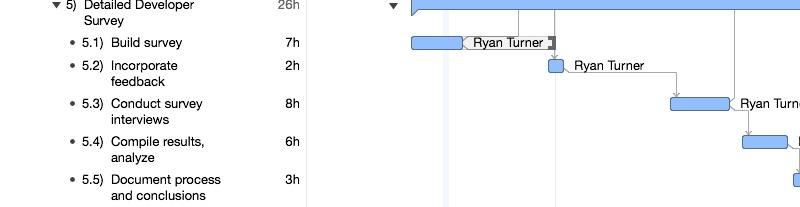
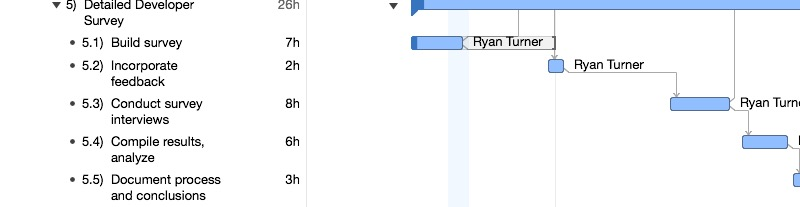
Updated project plan to reflect progress towards tasks

diff --git a/project-plan/task.html b/project-plan/task.html
@@ -53,7 +53,7 @@
                 <td>6/24/18, 12:00 PM</td>
                 <td>7/22/18, 10:30 AM</td>
                 <td>58.5h</td>
-                <td>0%</td>
+                <td>20%</td>
                 <td></td>
                 <td class="total"></td>
                 <td></td>
@@ -70,7 +70,7 @@
                 <td>6/24/18, 12:00 PM</td>
                 <td>6/24/18, 12:30 PM</td>
                 <td>0.5h</td>
-                <td>0%</td>
+                <td>100%</td>
                 <td></td>
                 <td class="total"></td>
                 <td>Ryan Turner</td>
@@ -274,7 +274,7 @@
                 <td>6/18/18, 7:00 PM</td>
                 <td>7/22/18, 1:00 PM</td>
                 <td>75h</td>
-                <td>0%</td>
+                <td>3%</td>
                 <td></td>
                 <td class="total"></td>
                 <td></td>
@@ -291,7 +291,7 @@
                 <td>6/18/18, 7:00 PM</td>
                 <td>6/20/18, 8:00 PM</td>
                 <td>7h</td>
-                <td>0%</td>
+                <td>12%</td>
                 <td></td>
                 <td class="total"></td>
                 <td>Ryan Turner</td>
@@ -376,7 +376,7 @@
                 <td>6/20/18, 8:00 PM</td>
                 <td>7/16/18, 10:00 PM</td>
                 <td>56h</td>
-                <td>0%</td>
+                <td>3%</td>
                 <td></td>
                 <td class="total"></td>
                 <td></td>
@@ -393,7 +393,7 @@
                 <td>6/20/18, 8:00 PM</td>
                 <td>6/24/18, 12:00 PM</td>
                 <td>7h</td>
-                <td>0%</td>
+                <td>12%</td>
                 <td></td>
                 <td class="total"></td>
                 <td>Ryan Turner</td>
@@ -479,6 +479,6 @@
         </div>
         </div>
         <div id="footer">
-	        <p class="exported">Exported 6/23/18</p>
+	        <p class="exported">Exported 6/24/18</p>
         </div>
 </body>

diff --git a/project-plan/resource.html b/project-plan/resource.html
@@ -45,7 +45,7 @@
                 <td>6/18/18, 7:00 PM</td>
                 <td>7/29/18, 12:00 PM</td>
                 <td>73.5h</td>
-                <td>0%</td>
+                <td>3%</td>
                 <td></td>
             </tr>
             
@@ -54,7 +54,7 @@
                 <td>6/18/18, 7:00 PM</td>
                 <td>6/20/18, 8:00 PM</td>
                 <td>7h</td>
-                <td>0%</td>
+                <td>12%</td>
                 <td></td>
             </tr>
             
@@ -63,7 +63,7 @@
                 <td>6/20/18, 8:00 PM</td>
                 <td>6/24/18, 12:00 PM</td>
                 <td>7h</td>
-                <td>0%</td>
+                <td>12%</td>
                 <td></td>
             </tr>
             
@@ -72,7 +72,7 @@
                 <td>6/24/18, 12:00 PM</td>
                 <td>6/24/18, 12:30 PM</td>
                 <td>0.5h</td>
-                <td>0%</td>
+                <td>100%</td>
                 <td></td>
             </tr>
             
@@ -237,6 +237,6 @@
         </div>
         </div>
         <div id="footer">
-	        <p class="exported">Exported 6/23/18</p>
+	        <p class="exported">Exported 6/24/18</p>
         </div>
 </body>

diff --git a/project-plan/gantt.html b/project-plan/gantt.html
@@ -31,17 +31,17 @@
 	       
 <table border="0" cellspacing="0" cellpadding="0">
 <tr>
-	<td><img src="include/gantt0,0.jpg?nocacheTag=-739084456" border=0/></td>
-	<td><img src="include/gantt1,0.jpg?nocacheTag=-1988156324" border=0/></td>
+	<td><img src="include/gantt0,0.jpg?nocacheTag=338568585" border=0/></td>
+	<td><img src="include/gantt1,0.jpg?nocacheTag=-1032778704" border=0/></td>
 </tr>
 <tr>
-	<td><img src="include/gantt0,1.jpg?nocacheTag=-26979225" border=0/></td>
-	<td><img src="include/gantt1,1.jpg?nocacheTag=-991048520" border=0/></td>
+	<td><img src="include/gantt0,1.jpg?nocacheTag=1869602644" border=0/></td>
+	<td><img src="include/gantt1,1.jpg?nocacheTag=-2054311080" border=0/></td>
 </tr>
 </table>
         </div>
         </div>
         <div id="footer">
-	        <p class="exported">Exported 6/23/18</p>
+	        <p class="exported">Exported 6/24/18</p>
         </div>
 </body>

diff --git a/project-plan/index.html b/project-plan/index.html
@@ -34,8 +34,8 @@
 	</div>
 	<div id="completed">
 		<p class="label">Completion</p>
-		<p class="number">0%</p>
-		<div id="bar"><div id="fill" style="width:0%;"></div></div>
+		<p class="number">3%</p>
+		<div id="bar"><div id="fill" style="width:3%;"></div></div>
 		<p>Start: 6/18/18, 12:00 AM</p>
 		<p>End Date: 7/29/18, 12:00 PM</p>
 		<p>Variance: 0h</p>
@@ -59,7 +59,7 @@
                 <td>6/18/18, 7:00 PM</td>
                 <td>7/29/18, 12:00 PM</td>
                 <td>73.5h</td>
-                <td>0%</td>
+                <td>3%</td>
                 <td></td>
             </tr>    
             
@@ -110,6 +110,6 @@
         </div>
         </div>
         <div id="footer">
-	        <p class="exported">Exported 6/23/18</p>
+	        <p class="exported">Exported 6/24/18</p>
         </div>
 </body>

diff --git a/project-plan/eva.html b/project-plan/eva.html
@@ -479,6 +479,6 @@
        </div>
         </div>
         <div id="footer">
-	        <p class="exported">Exported 6/23/18</p>
+	        <p class="exported">Exported 6/24/18</p>
         </div>
 </body>

diff --git a/project-plan/timeline.html b/project-plan/timeline.html
@@ -38,6 +38,6 @@
          </div>
         </div>
         <div id="footer">
-	        <p class="exported">Exported 6/23/18</p>
+	        <p class="exported">Exported 6/24/18</p>
         </div>
 </body>

diff --git a/project-plan/montecarlo.html b/project-plan/montecarlo.html
@@ -60,6 +60,6 @@
         </div>
         </div>
         <div id="footer">
-	        <p class="exported">Exported 6/23/18</p>
+	        <p class="exported">Exported 6/24/18</p>
         </div>
 </body>
